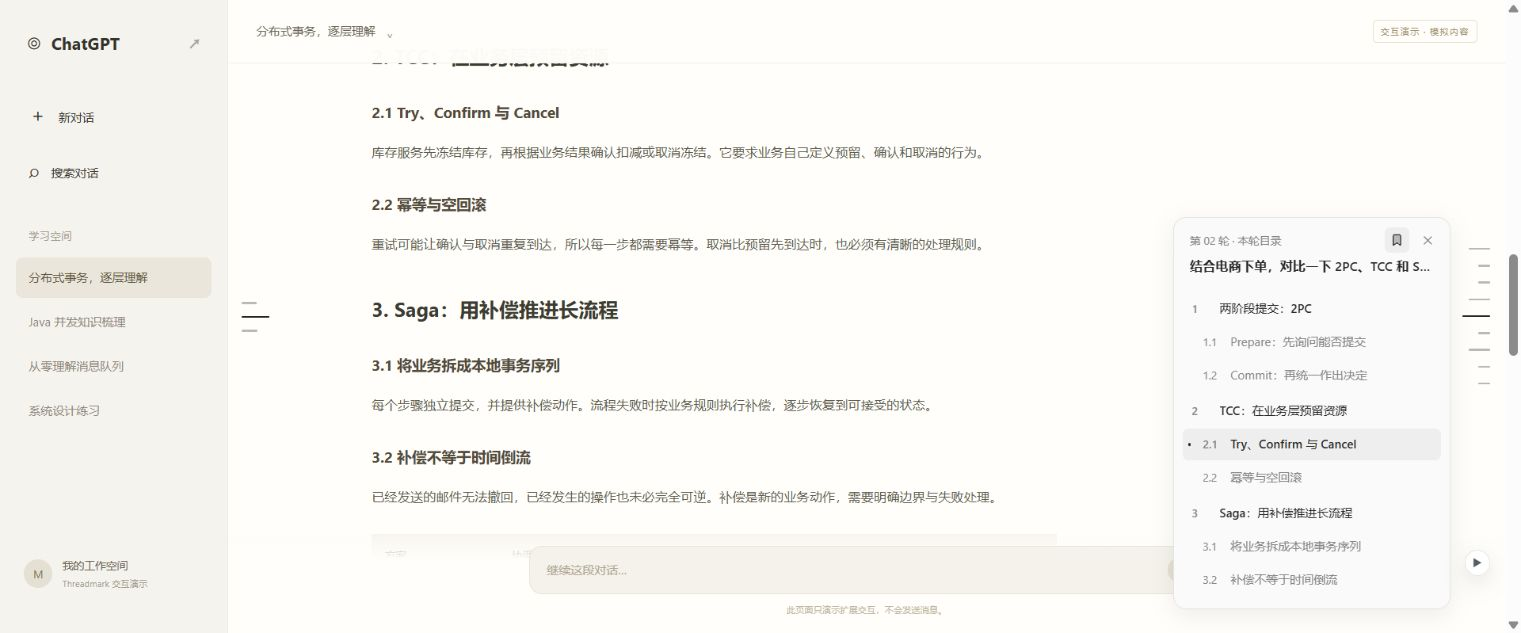
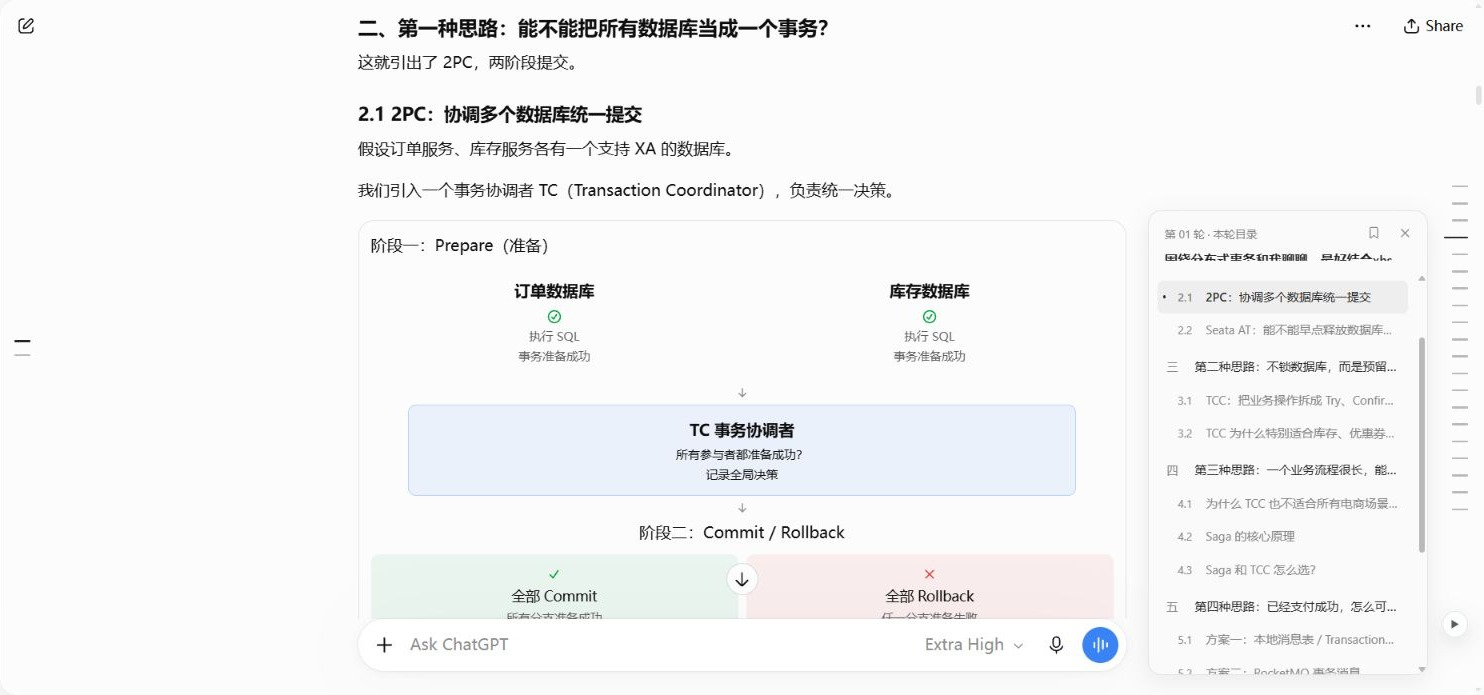
Add real ChatGPT screenshots and navigation demo

diff --git a/TESTING.md b/TESTING.md
@@ -39,15 +39,23 @@ npm test
 - 模拟逐字补充 `4.1`：第 4 轮右侧目录从 5 个小节增至 6 个。
 - 当前系统为浅色，右侧实际计算背景为 `rgb(250, 250, 250)`。
 
-仓库演示图全部由模拟对话页面截图生成；真实会话内容、会话链接与账号界面未放入仓库。
+本地演示仍可离线试用。README 中的截图与动图已更新为用户授权的真实 ChatGPT 历史会话画面，账号栏已裁去，未公开会话链接。
 
 ## 真实 ChatGPT 历史会话
 
-0.3.0 已在真实 ChatGPT 历史会话确认加载：2 轮对话，第一轮识别 20 个小节，右侧短线已实际显示。取图与后续点击验收时浏览器控制连接中断，尚未取得可用于公开演示的真实截图。
+2026-10-26，在 Chrome 真实历史会话中加载 0.3.1。页面一度出现回答加载失败，刷新重试后恢复，随后完成以下检查并截图：
 
-0.3.1 已完成等长短线与悬停收起修改，37 项自动化检查通过。已直接打开用户指定的真实历史会话，真实页面截图与新版行为复验仍受浏览器控制连接中断影响；未将其标记为通过。
+- 页面扩展版本确认为 0.3.1，识别 2 轮对话。
+- 第一轮目录 20 个小节，第二轮目录 16 个小节；点击左侧第 1 轮后，右侧标题与目录同步切换。
+- 默认左侧两条短线计算宽度均为 16px；右侧未悬停短线计算宽度统一为 16px，当前小节只用颜色标记。
+- 默认右侧卡片收起。点击小节后展开对应目录，固定状态为 false，点击不再自动固定。
+- 第二轮 `2.1 为什么需要 CLOSING？`、第一轮 `2.1 2PC：协调多个数据库统一提交` 均正确定位，滚动完成后标题距离视口顶部约 100px。
+- 左侧轮次点击后的固定状态为 false，右侧仅显示当前轮次的内容。
+- 保存了默认短线、第二轮目录展开、第一轮目录展开三张真实截图，并由这三张截图组成 README 动图。
 
-此前 0.2.x 已在用户授权的 Chrome 历史会话中验证 2 轮 / 65 个小节的提取、轮次跳转、小节定位与关键词搜索。0.3.0 新增的右侧目录需要在重新加载扩展后单独复验。
+`docs/demo-default.jpg` 为默认收起状态，`docs/demo.jpg` 为第一轮小节目录展开状态，`docs/demo.gif` 展示两轮切换。图片仅裁去账号导航栏。
+
+此前 0.2.x 还在另一个 Chrome 历史会话中验证过 2 轮 / 65 个小节的提取、轮次跳转、小节定位与关键词搜索。
 
 ## 尚未覆盖
 

diff --git a/README.md b/README.md
@@ -4,7 +4,13 @@
 
 Threadmark 是一个无需编译的 Chrome / Edge Manifest V3 扩展：**左侧定位对话轮次，右侧展开当前轮次的小节目录**。使用原生 JavaScript，不需要 API Key。
 
-> 0.3.1 默认显示等长短线，悬停展开详情，移开自动收起。真实 ChatGPT 网页截图正在补充；离线交互可打开 `preview/index.html` 体验。
+![真实 ChatGPT 网页：当前轮次的小节目录与跳转](docs/demo.jpg)
+
+![真实 ChatGPT 网页：默认等长短线](docs/demo-default.jpg)
+
+![真实 ChatGPT 网页：展开小节与切换轮次](docs/demo.gif)
+
+> 演示来自 chatgpt.com 的真实历史会话，使用 0.3.1 扩展。左侧账号栏已裁去。
 
 ## 安装
 
